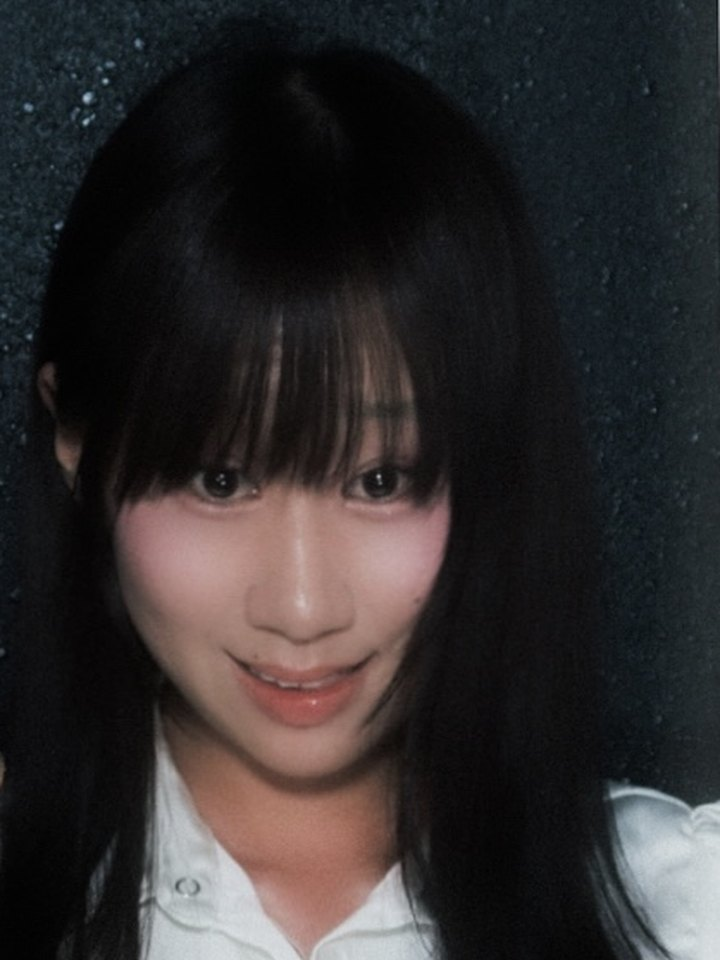
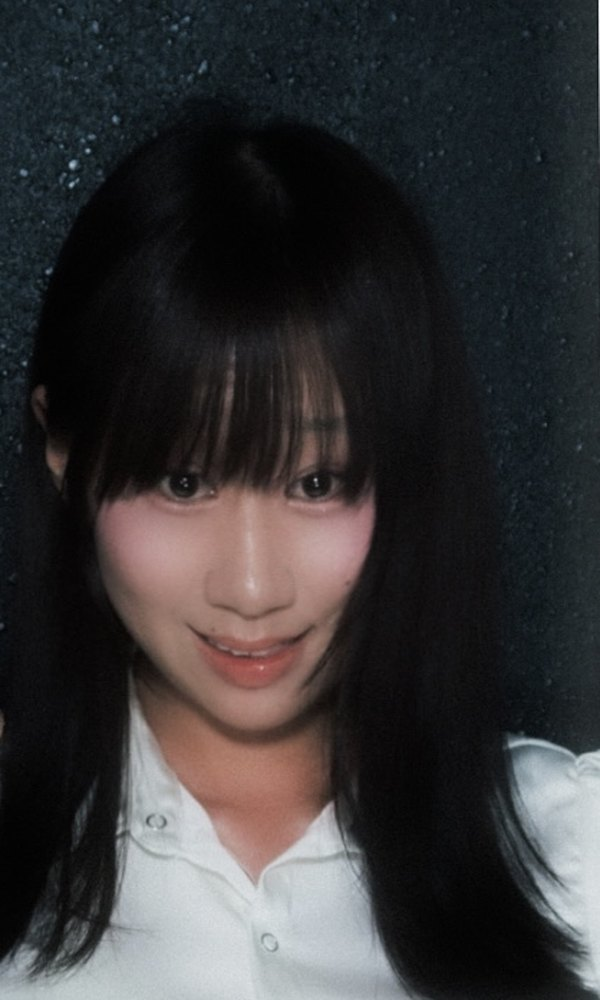
LAKA page: zoomed-out portrait with wood frame, Brand Philosophy copy, section labels on intro items
Claude-Session: https://claude.ai/code/session_01Nk12WBuyU4fhbDGFtX1SkQ

diff --git a/laka/index.html b/laka/index.html
@@ -82,7 +82,7 @@ nav .wrap{display:flex;align-items:center;justify-content:space-between;gap:16px
 .scene .wrap{position:relative;height:100%;display:grid;grid-template-columns:minmax(0,1fr) auto;align-items:end;gap:40px;padding-block:36px}
 .scene .copy{opacity:0;transform:translateY(16px);filter:blur(8px);max-width:620px}
 .scene.reveal .copy{animation:rise 1s cubic-bezier(.2,.7,.2,1) .5s forwards}
-.hero-photo{position:relative;margin:0;align-self:start;justify-self:end;width:300px;margin-top:-36px;opacity:0;transform:translateY(-40px);transition:opacity .9s ease,transform 1.1s cubic-bezier(.2,.7,.2,1)}
+.hero-photo{position:relative;margin:0;align-self:start;justify-self:end;width:280px;margin-top:-36px;opacity:0;transform:translateY(-40px);transition:opacity .9s ease,transform 1.1s cubic-bezier(.2,.7,.2,1)}
 .scene.reveal .hero-photo{opacity:1;transform:none}
 .scene .eyebrow{display:inline-block;background:var(--yellow);color:var(--on-yellow);font-size:12px;font-weight:700;letter-spacing:.12em;text-transform:uppercase;padding:4px 10px;border-radius:6px}
 .scene h1{font-size:clamp(34px,4.2vw,56px);font-weight:800;letter-spacing:-.03em;margin-top:14px;text-shadow:0 2px 24px rgba(0,0,0,.35)}
@@ -105,8 +105,8 @@ nav .wrap{display:flex;align-items:center;justify-content:space-between;gap:16px
 .tag .slot{position:absolute;left:50%;top:12px;width:56px;height:9px;margin-left:-28px;border-radius:9px;background:#0E0406;box-shadow:inset 0 1px 2px rgba(0,0,0,.6)}
 .tag .b-top{display:flex;justify-content:space-between;align-items:center;padding:32px 20px 12px;font:700 10px var(--body);letter-spacing:.18em;text-transform:uppercase;color:#6F5E61}
 .tag .b-top b{color:#B0102C}
-.tag .b-photo{margin:0 20px;border-radius:12px;overflow:hidden;aspect-ratio:3/4;background:#1C0407}
-.tag .b-photo img{display:block;width:100%;height:100%;object-fit:cover}
+.tag .b-photo{margin:0 20px;padding:6px;border-radius:12px;aspect-ratio:3/5;background:linear-gradient(135deg,#A8774E 0%,#7A4B2C 35%,#9C6B44 60%,#6A3F23 100%);box-shadow:inset 0 0 0 1px rgba(0,0,0,.25)}
+.tag .b-photo img{display:block;width:100%;height:100%;object-fit:cover;border-radius:7px}
 .tag .b-name{padding:14px 20px 0;display:flex;align-items:baseline;justify-content:space-between;gap:10px}
 .tag .b-name strong{font-family:"Cormorant Garamond",Georgia,serif;font-weight:700;font-size:40px;line-height:1;letter-spacing:.01em}
 .tag .b-name span{font:700 14px var(--body);letter-spacing:.28em;color:#3A2A2E}
@@ -116,9 +116,14 @@ nav .wrap{display:flex;align-items:center;justify-content:space-between;gap:16px
 @media (max-width:760px){
   .scene{height:auto}
   .scene .wrap{grid-template-columns:1fr;gap:24px;padding-block:60px 32px}
-  .hero-photo{order:-1;justify-self:center;width:250px;margin-top:-60px}
+  .hero-photo{order:-1;justify-self:center;width:236px;margin-top:-60px}
   .lanyard{height:96px}
-  .tag .b-name strong{font-size:34px}
+  .tag .b-name strong{font-size:32px}
+  .tag .b-top{padding:28px 14px 10px;font-size:8.5px;letter-spacing:.08em;white-space:nowrap}
+  .tag .b-photo{margin:0 14px}
+  .tag .b-name{padding:12px 14px 0}
+  .tag .b-role{padding:4px 14px 14px;font-size:8.5px;letter-spacing:.03em}
+  .tag .b-foot{padding:10px 14px}
 }
 
 /* lede + stats */
@@ -434,6 +439,7 @@ section{scroll-margin-top:70px}
 .ab-list li:nth-child(even){padding-left:24px;padding-right:0;border-left:1px solid var(--line)}
 .ab-n{grid-row:span 2;font:800 14px var(--display);color:var(--on-yellow);background:var(--yellow);border-radius:6px;padding:2px 7px;height:max-content;font-variant-numeric:tabular-nums}
 .ab-list h3{font-size:18px;letter-spacing:-.01em;line-height:1.35}
+.ab-lb{display:block;font:700 11px var(--body);letter-spacing:.12em;text-transform:uppercase;color:var(--brown);margin-bottom:4px}
 .ab-list p{font-size:15px;color:var(--muted);line-height:1.7}
 .ab-close{margin-top:22px;font-family:var(--display);font-weight:700;font-size:clamp(17px,2vw,21px);max-width:40em}
 .ab-close.quote{margin-top:28px;padding-left:20px;border-left:4px solid var(--yellow)}
@@ -645,10 +651,10 @@ html:not(.en) .star .flow-chips>span[lang="ko"],html.en .star .flow-chips>span[l
 </div>
 <div class="about"><div class="wrap">
     <ol class="ab-list">
-      <li><span class="ab-n">01</span><h3><span lang="ko">사람도 브랜드도, 고유한 개성에서 가치가 나옵니다</span><span lang="en">People and brands draw their value from what makes them unique</span></h3><p><span lang="ko">누구에게나 장점과 단점이 있기에 저마다의 개성이 생기고, 서로 영향을 주고받으며 살아가는 과정이 세상을 더 다채롭고 의미 있게 만든다고 생각합니다. 브랜드와 회사도 마찬가지입니다. 때로는 굴곡이 있더라도, 결국 고객이 우리가 제공할 수 있는 좋은 면을 발견하도록 돕는 것이 브랜드 마케팅의 역할이라고 믿습니다.</span><span lang="en">Everyone has strengths and weaknesses; that is what gives each of us character, and living alongside one another is what makes the world rich and meaningful. Brands and companies are the same. There may be ups and downs, but I believe brand marketing is about helping people see the good in what we can offer.</span></p></li>
-      <li><span class="ab-n">02</span><h3><span lang="ko">회사는 결국 사람으로 이루어져 있습니다</span><span lang="en">A company is made of people</span></h3><p><span lang="ko">서비스를 알리는 일도 중요하지만, 회사는 사람으로 구성되어 있습니다. 다양한 시각을 가진 동료들과 함께 고객에게 브랜드의 밝은 면을 보여 주고 신뢰를 전하는 과정 속에서, 주어진 역할은 물론 그 이상의 해야 할 일을 스스로 찾아 주도적으로 기여하는 것이 진정으로 가치 있는 일이라고 생각합니다.</span><span lang="en">Promoting a service matters, but a company is made of people. Working with colleagues of different perspectives to show customers the bright side of the brand and earn their trust, I believe the most valuable thing I can do is take on my role and find, on my own initiative, the work beyond it.</span></p></li>
-      <li><span class="ab-n">03</span><h3><span lang="ko">고객 또한 함께하는 팀원입니다</span><span lang="en">Customers are part of the team</span></h3><p><span lang="ko">고객이 매장을 방문한 순간은 곧 브랜드에 대한 기억이 됩니다. 저는 고객을 브랜드를 함께 만들어 가는 팀원으로 바라보며, 고객 한 분 한 분을 통해 배운다는 자세로 일하겠습니다.</span><span lang="en">The moment a customer visits a store becomes their memory of the brand. I see customers as teammates who help shape the brand, and I will work with the attitude of learning from each one of them.</span></p></li>
-      <li><span class="ab-n">04</span><h3><span lang="ko">라카에서 기여하고 싶은 일</span><span lang="en">What I hope to contribute at LAKA</span></h3><p><span lang="ko">‘모두를 위한 뷰티’라는 라카의 철학처럼, 고객이 자신에게 맞는 컬러와 텍스처로 고유한 아우라를 발견하는 경험을 매장과 콘텐츠, 그리고 글로벌 고객 접점으로 넓혀 가는 데 기여하고 싶습니다.</span><span lang="en">In line with LAKA’s belief in beauty for everyone, I hope to help extend the experience of finding one’s own aura through color and texture across stores, content and global touchpoints.</span></p></li>
+      <li><span class="ab-n">01</span><h3><small class="ab-lb">Brand Philosophy</small><span lang="ko">오래 남는 브랜드는 경험에서 만들어집니다</span><span lang="en">Lasting brands are built on experience</span></h3><p><span lang="ko">화제성은 순간의 관심을 만들지만, 충성도는 고객이 직접 경험한 브랜드에서 나온다고 생각합니다. 짧은 콘텐츠가 넘쳐나는 지금, MZ세대는 진정성 있는 경험을 원합니다. 공간과 제품을 통해 고객이 자신만의 아우라를 발견하도록 돕고, 그 경험이 브랜드에 대한 신뢰로 이어지게 하는 것이 브랜드 마케팅의 역할이라고 믿습니다.</span><span lang="en">Going viral wins a moment of attention, but loyalty comes from a brand people have experienced for themselves. With short-form content everywhere, younger consumers want experiences that feel authentic. I believe brand marketing is about helping customers discover their own aura through space and product, and turning that experience into trust in the brand.</span></p></li>
+      <li><span class="ab-n">02</span><h3><small class="ab-lb">Teamwork</small><span lang="ko">회사는 결국 사람으로 이루어져 있습니다</span><span lang="en">A company is made of people</span></h3><p><span lang="ko">서비스를 알리는 일도 중요하지만, 회사는 사람으로 구성되어 있습니다. 다양한 시각을 가진 동료들과 함께 고객에게 브랜드의 밝은 면을 보여 주고 신뢰를 전하는 과정 속에서, 주어진 역할은 물론 그 이상의 해야 할 일을 스스로 찾아 주도적으로 기여하는 것이 진정으로 가치 있는 일이라고 생각합니다.</span><span lang="en">Promoting a service matters, but a company is made of people. Working with colleagues of different perspectives to show customers the bright side of the brand and earn their trust, I believe the most valuable thing I can do is take on my role and find, on my own initiative, the work beyond it.</span></p></li>
+      <li><span class="ab-n">03</span><h3><small class="ab-lb">Customer</small><span lang="ko">고객 또한 함께하는 팀원입니다</span><span lang="en">Customers are part of the team</span></h3><p><span lang="ko">고객이 매장을 방문한 순간은 곧 브랜드에 대한 기억이 됩니다. 저는 고객을 브랜드를 함께 만들어 가는 팀원으로 바라보며, 고객 한 분 한 분을 통해 배운다는 자세로 일하겠습니다.</span><span lang="en">The moment a customer visits a store becomes their memory of the brand. I see customers as teammates who help shape the brand, and I will work with the attitude of learning from each one of them.</span></p></li>
+      <li><span class="ab-n">04</span><h3><small class="ab-lb">At LAKA</small><span lang="ko">라카에서 기여하고 싶은 일</span><span lang="en">What I hope to contribute at LAKA</span></h3><p><span lang="ko">‘모두를 위한 뷰티’라는 라카의 철학처럼, 고객이 자신에게 맞는 컬러와 텍스처로 고유한 아우라를 발견하는 경험을 매장과 콘텐츠, 그리고 글로벌 고객 접점으로 넓혀 가는 데 기여하고 싶습니다.</span><span lang="en">In line with LAKA’s belief in beauty for everyone, I hope to help extend the experience of finding one’s own aura through color and texture across stores, content and global touchpoints.</span></p></li>
     </ol>
     <p class="ab-close quote"><span class="q-en">“You can copy someone’s style, but not their aura.”</span><span lang="ko" class="q-ko">스타일은 따라 할 수 있어도, 아우라는 따라 할 수 없습니다.</span></p>
   </div></div>
